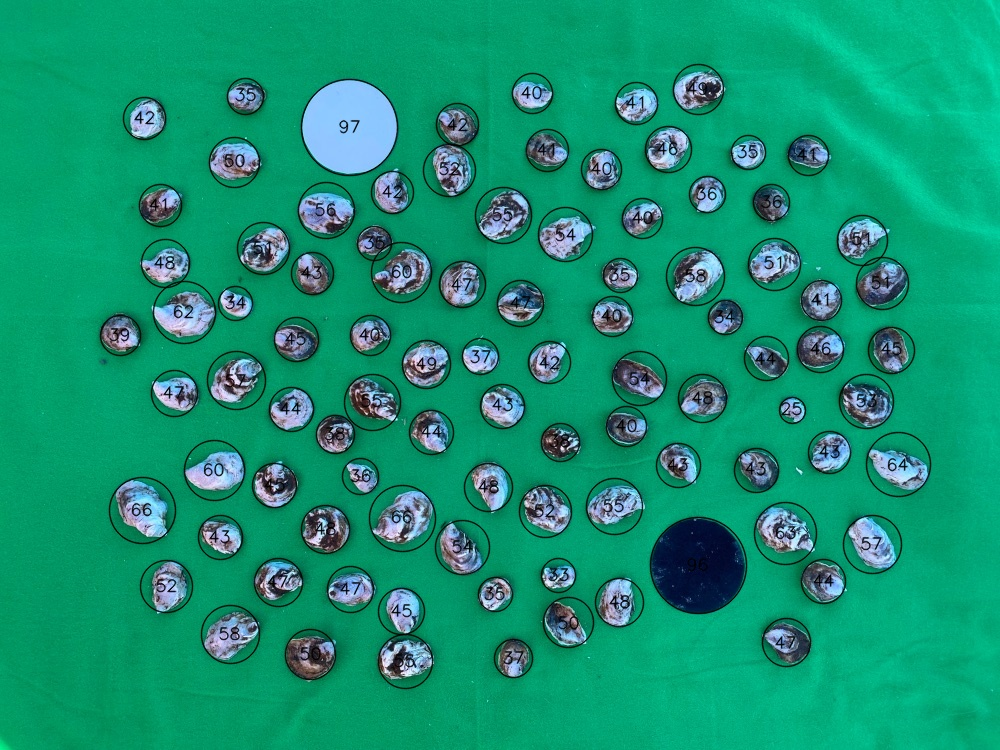
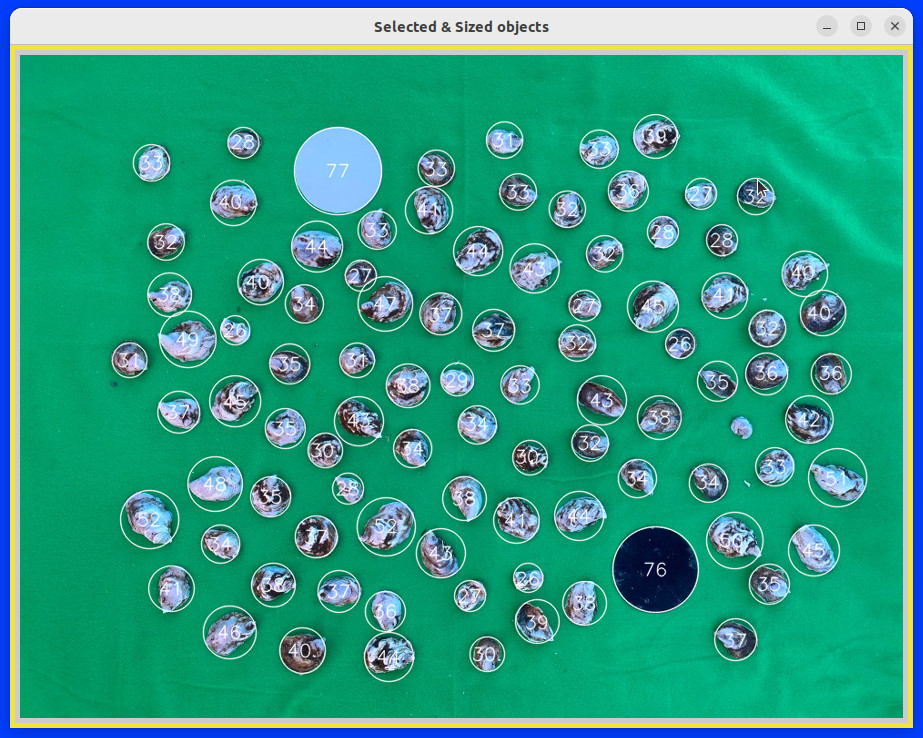
v 0.1.15: Updated screenshots

diff --git a/README.md b/README.md
@@ -172,8 +172,9 @@ Object size metrics,   mean: 12.3, median: 12.2, range: 6.74--18.1
 Below, relevant image processing steps in `size_it.py` are displayed in seven panes in four windows. Images update as settings are changed.
 ![all size_it image windows](images/all_image_windows.png)
 
-Below, example of green screen segmentation of 93 selected objects using `size_it_cs.py`. Example image `sample6.jpg` was processed with these settings: Matte color: green3, Noise reduction ksize=3, iterations=1; morphology operator =cv2.MORPH_HITMISS, shape=cv2.MORPH_RECT, Selected size range: 5--375 pixels. Displayed sizes are pixels. The white and black circles are hockey puck-sized standards (plastic cut-outs). 
-![sample6_greenscreen_result](images/sample6_result_screenshot.jpg)
+Below, `size_it_cs.py` settings window with menubar and result for green screen segmentation. Example image `sample6.jpg` was processed with these settings: Matte color: green3, Noise reduction ksize=3, iterations=1; morphology operator =cv2.MORPH_HITMISS, shape=cv2.MORPH_RECT, Selected size range: 5--375 pixels. Displayed sizes are pixels. The white and black circles are hockey puck-sized standards (plastic cut-outs). 
+![size_it_cs settings](images/size_it_cs_settings_screenshot.png)
+![sample6 result](images/sample6_result_screenshot.jpg)
 
 ### Sizing with lens distortion:
 There are three ways to deal with lens distortion to obtain the best size estimates. For example, an iPhone 11 using the wide-angle (normal) lens at a zoom of 1x, with the sample stage at a 20-inch distance and the size standard placed at the center, there is ~2% increase in the population mean size because objects farther from the center cover slightly more pixel area than their actual size. With the ultra-wide lens (e.g. zoom of 0.7x), the sizing error is about 3% to 4%.
